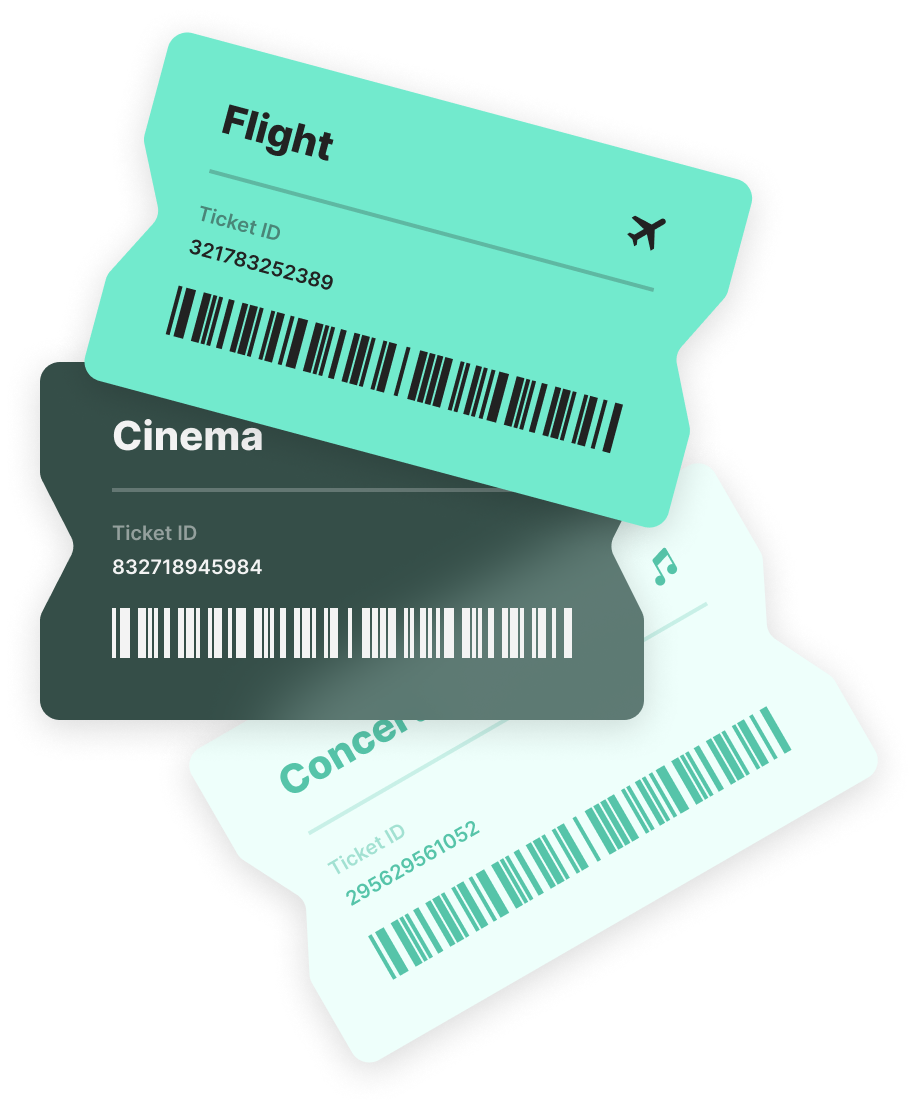
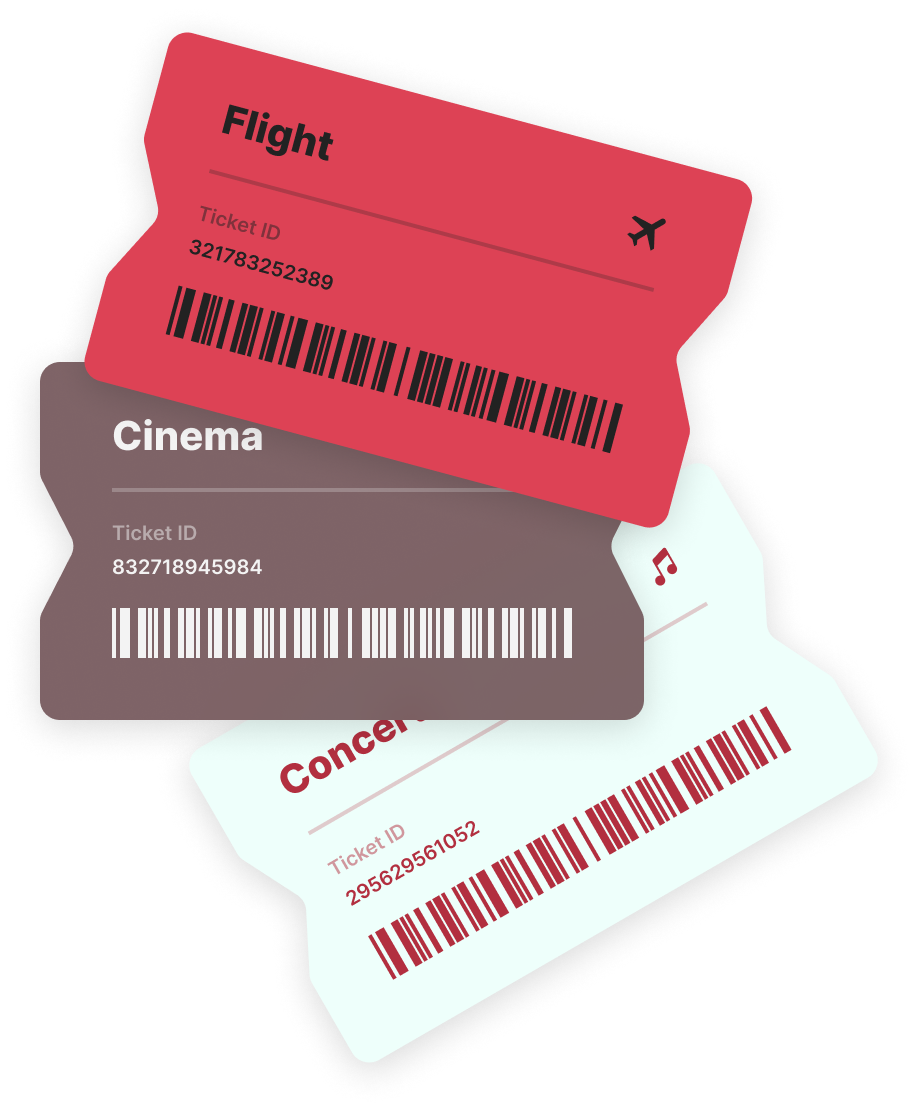
Added dynamic styles for index page

diff --git a/public/css/general.css b/public/css/general.css
@@ -5,16 +5,6 @@ General -----------------------------------------
 */
 @import url('https://fonts.googleapis.com/css2?family=Inter:wght@400;500;600;700&display=swap');
 
-:root {
-	--primary: #72EACD;
-	--primary-transparent: #72EACD7F;
-	--red: #D14040;
-	--background: #222222;
-	--foreground: #333333;
-	--text-primary: #FFFFFF;
-	--text-secondary: #FFFFFF7F;
-}
-
 * {
 	margin: 0;
 	padding: 0;
@@ -46,6 +36,15 @@ Navigation bar ----------------------------------
 	border-bottom: 1px solid var(--text-secondary);
 }
 
+.navbar .navbar-logo svg {
+	width: 35px;
+	height: 35px;
+}
+
+.navbar .navbar-logo svg path {
+	fill: var(--accent);
+}
+
 .navbar .middle a {
 	margin-left: 50px;
 }
@@ -57,18 +56,19 @@ a.link {
 }
 
 a.link:hover {
-	color: var(--primary);
+	color: var(--accent);
 }
 
 .navbar-content .right #login {
 	padding: 8px 20px;
-	border: 1px solid white;
+	border: 1px solid var(--text-primary);
 	border-radius: 8px;
 	margin-left: 1rem;
 }
 
 .navbar-content .right #login:hover {
 	background-color: var(--text-primary);
+	color: var(--accent);
 }
 
 .navbar-content #burger-menu {
@@ -105,7 +105,7 @@ footer .icons a {
 	text-decoration: none;
 }
 
-footer .icons img {
+footer .icons svg {
 	margin-right: 20px;
 	width: 20px;
 	cursor: pointer;
@@ -113,7 +113,7 @@ footer .icons img {
 	transition: 300ms;
 }
 
-footer .icons img:hover {
+footer .icons svg:hover {
 	opacity: 1;
 }
 
@@ -125,7 +125,7 @@ footer .links a {
 }
 
 footer .links a:hover {
-	color: var(--primary);
+	color: var(--accent);
 }
 
 /*

diff --git a/public/css/profile.css b/public/css/profile.css
@@ -66,7 +66,7 @@ Profile ------------------------------------------
 
 
 .Profile-Button #EditProfile-Button:hover {
-	background-color: var(--primary);
+	background-color: var(--accent);
 	cursor: pointer;
 	transform: scale(1.09);
 	transition: 300ms;
@@ -106,12 +106,12 @@ Profile ------------------------------------------
 }
 
 .tab-button.active {
-	background-color: var(--primary);
+	background-color: var(--accent);
 	color: #333;
 }
 
 .Ticket-buttons #All-Tickets:hover {
-	background-color: var(--primary);
+	background-color: var(--accent);
 	cursor: pointer;
 	transform: scale(1.09);
 	transition: 300ms;
@@ -124,7 +124,7 @@ Profile ------------------------------------------
 }
 
 .Ticket-buttons #Travels:hover {
-	background-color: var(--primary);
+	background-color: var(--accent);
 	cursor: pointer;
 	transform: scale(1.09);
 	transition: 300ms;
@@ -132,7 +132,7 @@ Profile ------------------------------------------
 
 
 .Ticket-buttons #Movies:hover {
-	background-color: var(--primary);
+	background-color: var(--accent);
 	cursor: pointer;
 	transform: scale(1.09);
 	transition: 300ms;
@@ -140,7 +140,7 @@ Profile ------------------------------------------
 }
 
 .Ticket-buttons #Concerts:hover {
-	background-color: var(--primary);
+	background-color: var(--accent);
 	cursor: pointer;
 	transform: scale(1.09);
 	transition: 300ms;
@@ -223,5 +223,5 @@ TicketBlocks ------------------------------------------
 }	
 
 .TicketType .TicketText{
-	color: var(--primary);
+	color: var(--accent);
 }

diff --git a/public/css/index.css b/public/css/index.css
@@ -4,7 +4,7 @@ Main content ------------------------------------
 -------------------------------------------------
 */
 body {
-	background-image: url(../assets/Blob.svg);
+	background-image: url(../assets/icons/Blob.svg);
 	background-repeat: no-repeat;
 	background-position: -300px -100px;
 	/* height: 100vh; */
@@ -29,7 +29,7 @@ main #title {
 	margin-bottom: 3rem;
 }
 
-main #accent {color: var(--primary);}
+main #accent {color: var(--accent);}
 
 main .options p {
 	color: var(--text-secondary);
@@ -67,12 +67,18 @@ main .btn {
 	gap: 20px;
 	padding: 1rem 4rem;
 	font-size: 1.25rem;
-	font-weight: 600;
+	font-weight: 500;
 	border-radius: 1rem;
-	background-color: var(--primary);
+	border: none;
+	color: var(--background);
+	background-color: var(--accent);
 	margin-top: 2rem;
 	cursor: pointer;
 	transition: 300ms;
+}
+
+.btn svg {
+	fill: var(--background);
 }
 
 main .btn:hover {

diff --git a/public/css/SignUp.css b/public/css/SignUp.css
@@ -43,7 +43,7 @@ h6 {
 #a{
 	text-decoration-line: none;
 	font-size: 1rem;
-	color: var(--primary);
+	color: var(--accent);
 }
 
 .btn {
@@ -56,7 +56,7 @@ h6 {
 	font-size: 1.25rem;
 	font-weight: 600;
 	border-radius: 1rem;
-	background-color: var(--primary);
+	background-color: var(--accent);
 	margin-top: 2rem;
 	cursor: pointer;
 }
@@ -129,7 +129,7 @@ main .btn:active {
 }
 div a{
 	text-decoration: none;
-	color: var(--primary);
+	color: var(--accent);
 	transition: 300ms;
 	margin-left: 20px;
 	
@@ -142,7 +142,7 @@ div a{
 }
 
 #checkbox{
-	accent-color: var(--primary);	
+	accent-color: var(--accent);	
 }
 
 /*

diff --git a/public/css/login.css b/public/css/login.css
@@ -36,7 +36,7 @@ body {
 
 .headers a {
 	text-decoration: none;
-	color: var(--primary);
+	color: var(--accent);
 }
 
 .headers a:hover {
@@ -96,7 +96,7 @@ form #checkbox {
 	cursor: pointer;
 	border: none;
 	outline: none;
-	accent-color: var(--primary);
+	accent-color: var(--accent);
 }
 
 #button {
@@ -105,7 +105,7 @@ form #checkbox {
 	border: none;
 	border-radius: 1rem;
 	width: 100%;
-	background-color: var(--primary);
+	background-color: var(--accent);
 	font-weight: 600;
 	cursor: pointer;
 	transition: 300ms;

diff --git a/public/css/contact.css b/public/css/contact.css
@@ -93,7 +93,7 @@ body {
 
 .form3 #button{ 
   box-sizing: border-box;
-  background-color: var(--primary);
+  background-color: var(--accent);
   color: var(--background);
   font-weight: 100;
   padding: 8px;
@@ -108,7 +108,7 @@ body {
 
 .form3 #button:hover{ 
     box-sizing: border-box;
-    background-color: var(--primary);
+    background-color: var(--accent);
     color: var(--background);
     font-weight: 100;
     padding: 8px;

diff --git a/public/css/aboutus.css b/public/css/aboutus.css
@@ -23,7 +23,7 @@ Main ------------------------------------------
 }
 
 .accent {
-	color: var(--primary);
+	color: var(--accent);
 }
 
 .section {

diff --git a/public/index.php b/public/index.php
@@ -1,0 +1,72 @@
+<?php $isDark = true; ?>
+
+<!DOCTYPE html>
+<html lang="en">
+
+<head>
+	<title>Home - TicketBooker</title>
+	<meta charset="UTF-8">
+	<meta http-equiv="X-UA-Compatible" content="IE=edge">
+	<meta name="viewport" content="width=device-width, initial-scale=1.0">
+	<link rel='icon' type='image/x-icon' href='assets/icons/Favicon.svg'>
+	<?php
+		if ($isDark == true) {
+			echo "<link rel='stylesheet' href='css/palette-dark.css'>";
+		} else {
+			echo "<link rel='stylesheet' href='css/palette-light.css'>";
+		}
+	?>
+	<link rel="stylesheet" href="css/general.css">
+	<link rel="stylesheet" href="css/index.css">
+	<script src="https://kit.fontawesome.com/26e97bbe8d.js" crossorigin="anonymous"></script>
+	<script src="https://code.jquery.com/jquery-3.6.3.min.js" integrity="sha256-pvPw+upLPUjgMXY0G+8O0xUf+/Im1MZjXxxgOcBQBXU="
+	crossorigin="anonymous"></script>
+	<script src="js/app.js"></script>
+</head>
+
+<body>
+
+	<?php include('../src/templates/navbar.php') ?>
+
+	<!-- Main content -->
+	<main>
+		<div class="content">
+			<h1 id="title">
+				Book tickets
+				<br>anywhere, all in <span id="accent">one place</span>
+			</h1>
+
+			<div class="options">
+				<p>What, when, where?</p>
+
+				<div class="selectors">
+					<select name="what" id="select-what">
+						<option value="Movie">Movie</option>
+						<option value="Travel">Travel</option>
+						<option value="Concert">Concert</option>
+					</select>
+					<input type="date" name="when" id="select-when">
+					<select name="where" id="select-where">
+						<option value="Movie">Prishtinë</option>
+						<option value="Travel">Mitrovicë</option>
+						<option value="Concert">Pejë</option>
+						<option value="Concert">Prizren</option>
+						<option value="Concert">Ferizaj</option>
+						<option value="Concert">Gjilan</option>
+						<option value="Concert">Gjakovë</option>
+					</select>
+				</div>
+			</div>
+
+			<button class="btn">
+				Find tickets
+				<img src="assets/icons/Arrow.svg" alt="Arrow" id="arrow">
+			</button>
+		</div>
+		<img src="assets/images/Tickets.png" alt="Tickets" id="tickets" height="500">
+	</main>
+
+	<?php include('../src/templates/footer.php') ?>
+</body>
+
+</html>

diff --git a/src/templates/footer.php b/src/templates/footer.php
@@ -3,13 +3,13 @@
 	<p id="copyright">Copyright &copy; 2023 TicketBooker. All rights reserved</p>
 	<div class="icons">
 		<a href="https://www.instagram.com" target="_blank">
-			<img src="assets/icons/Instagram.svg" alt="Instagram" class="icon">
+			<?php echo file_get_contents('assets/icons/Instagram.svg') ?>
 		</a>
 		<a href="https://www.twitter.com" target="_blank">
-			<img src="assets/icons/Twitter.svg" alt="Twitter" class="icon">
+			<?php echo file_get_contents('assets/icons/Twitter.svg') ?>
 		</a>
 		<a href="https://www.linkedin.com" target="_blank">
-			<img src="assets/icons/Linkedin.svg" alt="Linkedin" class="icon">
+			<?php echo file_get_contents('assets/icons/Linkedin.svg') ?>
 		</a>
 	</div>
 	<div class="links">
